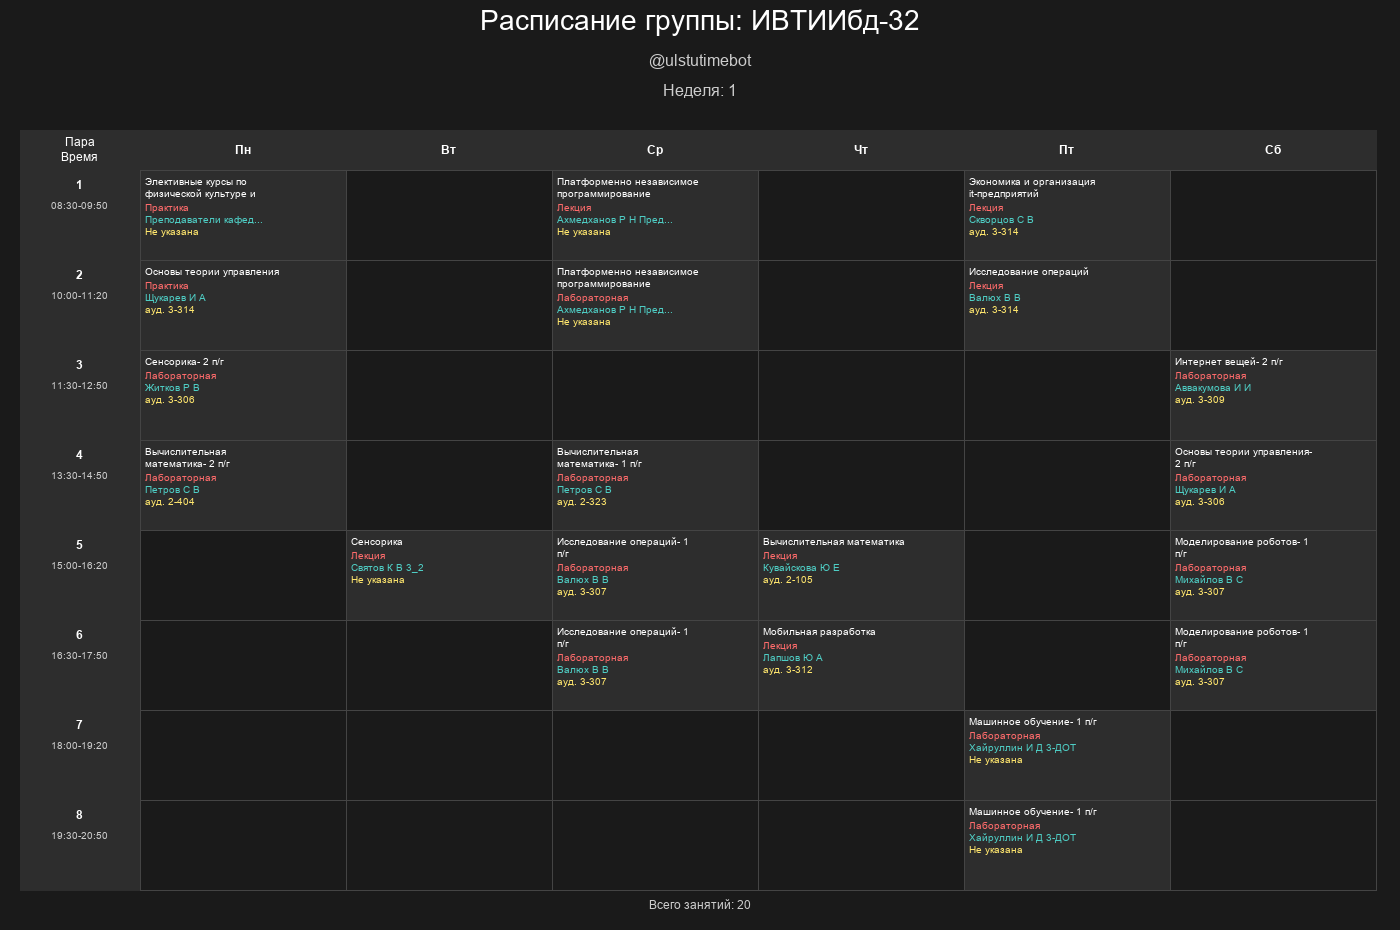
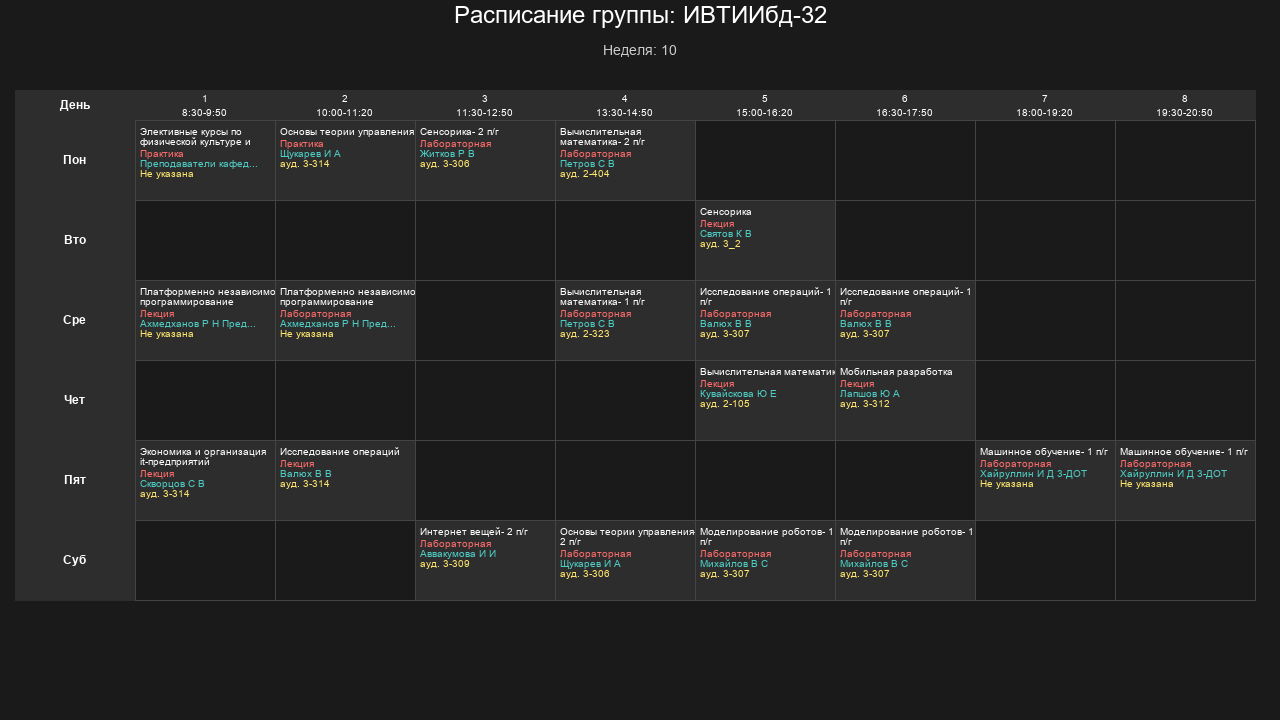
fixed week num

diff --git a/UlstuParser.py b/UlstuParser.py
@@ -108,7 +108,7 @@ class UlstuParser:
         return all_groups_data
 
     def parse_group_schedule(self, group_url):
-        """Парсит расписание группы УлГТУ - УЛУЧШЕННАЯ ВЕРСИЯ"""
+        """Парсит расписание группы УлГТУ - ПОЛНАЯ ИСПРАВЛЕННАЯ ВЕРСИЯ"""
         if not self.logged_in:
             # Получаем номер группы из URL и используем реальное название
             group_number = int(group_url.split('/')[-1].replace('.html', ''))
@@ -132,7 +132,30 @@ class UlstuParser:
             # Получаем номер группы из URL и используем реальное название
             group_number = int(group_url.split('/')[-1].replace('.html', ''))
             group_name = self.get_group_name(group_number)
-            week_number = "1"
+            week_number = "1"  # значение по умолчанию
+
+            # ИЩЕМ НОМЕР НЕДЕЛИ В ЗАГОЛОВКЕ
+            # Ищем заголовок с неделей
+            week_elements = soup.find_all('font', {'color': '#ff00ff', 'face': 'Times New Roman', 'size': '6'})
+            for element in week_elements:
+                text = element.get_text(strip=True)
+                if 'Неделя:' in text:
+                    # Извлекаем номер недели (например: "10-я", "11-я")
+                    week_match = re.search(r'Неделя:\s*(\d+)-я', text)
+                    if week_match:
+                        week_number = week_match.group(1)
+                        logging.info(f"📅 Найдена неделя: {week_number}")
+                    break
+
+            # Если не нашли через элементы, ищем по тексту
+            if week_number == "1":
+                week_texts = soup.find_all(text=re.compile(r'Неделя:'))
+                for text in week_texts:
+                    week_match = re.search(r'Неделя:\s*(\d+)-я', str(text))
+                    if week_match:
+                        week_number = week_match.group(1)
+                        logging.info(f"📅 Найдена неделя через текстовый поиск: {week_number}")
+                        break
 
             # Ищем все таблицы
             tables = soup.find_all("table", {"border": "1"})
@@ -167,14 +190,14 @@ class UlstuParser:
                         pair_number = cell_idx
 
                         # Получаем текст ячейки
-                        cell_text = cell.get_text(separator='\n', strip=True)
+                        cell_text = cell.get_text()
 
                         if cell_text and cell_text not in ['', '-', ' ']:
                             # Парсим содержимое ячейки
                             lesson_data = self._parse_cell_content(cell_text)
                             if lesson_data:
                                 schedule_item = {
-                                    'week': 1,
+                                    'week': int(week_number),
                                     'day': day_name,
                                     'pair': pair_number,
                                     'subject': lesson_data['subject'],
@@ -185,8 +208,9 @@ class UlstuParser:
                                 schedules.append(schedule_item)
                                 logging.info(f"✅ Добавлено: {day_name} {pair_number} пара - {lesson_data['subject']}")
 
-            logging.info(f"📊 Итог: {len(schedules)} занятий для группы {group_name}")
+            logging.info(f"📊 Итог: {len(schedules)} занятий для группы {group_name}, неделя {week_number}")
             return group_name, week_number, schedules
+
 
         except Exception as e:
             logging.error(f"❌ Ошибка парсинга: {e}")
@@ -196,7 +220,7 @@ class UlstuParser:
             return group_name, "1", []
 
     def _parse_cell_content(self, cell_text):
-        """Парсит содержимое ячейки с занятием - ОБНОВЛЕННАЯ ВЕРСИЯ для аудиторий"""
+        """Парсит содержимое ячейки с занятием - УЛУЧШЕННАЯ ВЕРСИЯ"""
         try:
             lines = [line.strip() for line in cell_text.split('\n') if line.strip()]
 
@@ -204,27 +228,47 @@ class UlstuParser:
                 return None
 
             # Первая строка - предмет и тип
-            first_line = lines[0].lower()
+            first_line = lines[0]
 
             # Определяем тип занятия
             lesson_type = "Лекция"
-            if 'пр.' in first_line or 'практ' in first_line:
-                lesson_type = "Практика"
-            elif 'лаб.' in first_line or 'лабор' in first_line:
-                lesson_type = "Лабораторная"
-            elif 'сем.' in first_line:
-                lesson_type = "Семинар"
-            elif 'зач.' in first_line:
-                lesson_type = "Зачёт"
-            elif 'экз.' in first_line:
-                lesson_type = "Экзамен"
+            type_indicators = {
+                'пр.': "Практика",
+                'практ': "Практика",
+                'лаб.': "Лабораторная",
+                'лабор': "Лабораторная",
+                'сем.': "Семинар",
+                'зач.': "Зачёт",
+                'экз.': "Экзамен",
+                'лек.': "Лекция"
+            }
 
-            # Извлекаем название предмета (убираем сокращения типа)
-            subject = lines[0]
-            for abbrev in ['лек.', 'пр.', 'лаб.', 'сем.', 'зач.', 'экз.']:
-                if abbrev in subject.lower():
-                    subject = subject.lower().replace(abbrev, '').strip().capitalize()
+            for indicator, lesson_type_name in type_indicators.items():
+                if indicator in first_line.lower():
+                    lesson_type = lesson_type_name
+                    # Убираем сокращение типа из названия предмета
+                    first_line = first_line.lower().replace(indicator, '').strip()
+                    if first_line:  # Capitalize только если строка не пустая
+                        first_line = first_line.capitalize()
                     break
+
+            # Если не нашли сокращение, но есть русские обозначения
+            if lesson_type == "Лекция":
+                russian_indicators = {
+                    'практика': "Практика",
+                    'лабораторная': "Лабораторная",
+                    'семинар': "Семинар",
+                    'зачёт': "Зачёт",
+                    'экзамен': "Экзамен",
+                    'лекция': "Лекция"
+                }
+
+                for indicator, lesson_type_name in russian_indicators.items():
+                    if indicator in first_line.lower():
+                        lesson_type = lesson_type_name
+                        break
+
+            subject = first_line if first_line else "Не указано"
 
             # Преподаватель и аудитория
             teacher = "Не указан"
@@ -235,8 +279,8 @@ class UlstuParser:
                 teacher_line = lines[1]
 
                 # Паттерн для поиска формата "Фамилия И О номер_аудитории"
-                # Пример: "Лапшов Ю А 3-312"
-                classroom_pattern = r'([А-ЯЁ][а-яё]+(?:\s+[А-ЯЁ][а-яё]+)*)\s+([А-ЯЁ]\s+[А-ЯЁ])\s+([\d\-]+)$'
+                # Пример: "Лапшов Ю А 3-312", "Щукарев И А 3-314"
+                classroom_pattern = r'([А-ЯЁ][а-яё]+(?:\s+[А-ЯЁ][а-яё]+)*)\s+([А-ЯЁ]\s+[А-ЯЁ])\s+([\d\-_]+)$'
                 classroom_match = re.search(classroom_pattern, teacher_line)
 
                 if classroom_match:
@@ -247,7 +291,6 @@ class UlstuParser:
 
                     teacher = f"{teacher_name} {initials}"
                     classroom = f"ауд. {room_number}"
-
                     logging.info(f"🎯 Найдена аудитория в формате ФИО+аудитория: {teacher} -> {classroom}")
 
                 else:
@@ -263,7 +306,7 @@ class UlstuParser:
             if len(lines) > 2 and classroom == "Не указана":
                 third_line = lines[2]
                 # Проверяем формат "Фамилия И О номер_аудитории" в третьей строке
-                classroom_pattern = r'([А-ЯЁ][а-яё]+(?:\s+[А-ЯЁ][а-яё]+)*)\s+([А-ЯЁ]\s+[А-ЯЁ])\s+([\d\-]+)$'
+                classroom_pattern = r'([А-ЯЁ][а-яё]+(?:\s+[А-ЯЁ][а-яё]+)*)\s+([А-ЯЁ]\s+[А-ЯЁ])\s+([\d\-_]+)$'
                 classroom_match = re.search(classroom_pattern, third_line)
 
                 if classroom_match:
@@ -278,7 +321,7 @@ class UlstuParser:
                     classroom = third_line
 
             return {
-                'subject': subject if subject else "Не указано",
+                'subject': subject,
                 'type': lesson_type,
                 'teacher': teacher if teacher else "Не указан",
                 'classroom': classroom

diff --git a/handlers.py b/handlers.py
@@ -3,6 +3,7 @@ import os
 from maxapi.types import BotStarted, Command, MessageCreated, InputMediaBuffer
 from UlstuParser import UlstuParser
 from config import SCHEDULE_BASE_URL, MIN_GROUP_NUMBER, MAX_GROUP_NUMBER
+from groups_dict import GROUPS_DICT
 
 # Создаем парсер
 parser = UlstuParser()
@@ -159,6 +160,9 @@ async def group_handler(bot, event: MessageCreated):
                     f"❌ Номер группы должен быть от {MIN_GROUP_NUMBER} до {MAX_GROUP_NUMBER}"
                 )
                 return
+
+            # ОДИН вызов вместо двух
+            await event.message.answer(f"🔍 Генерирую расписание для группы {group_number}...")
             await generate_and_send_table(bot, chat_id, group_number)
 
         except ValueError:
@@ -167,7 +171,9 @@ async def group_handler(bot, event: MessageCreated):
             group_number = parser.find_group_number(group_name)
 
             if group_number:
-                await event.message.answer(f"🔍 Найдена группа: {parser.get_group_name(group_number)} (№{group_number})")
+                # ОДИН вызов вместо двух
+                await event.message.answer(
+                    f"🔍 Генерирую расписание для группы {parser.get_group_name(group_number)}...")
                 await generate_and_send_table(bot, chat_id, group_number)
             else:
                 # Предлагаем похожие группы
@@ -178,7 +184,7 @@ async def group_handler(bot, event: MessageCreated):
 
                 if similar_groups:
                     groups_text = "❌ Группа не найдена, но есть похожие:\n\n"
-                    for num, name in similar_groups[:5]:  # Показываем первые 5
+                    for num, name in similar_groups[:5]:
                         groups_text += f"• {name} - используйте `/group {num}`\n"
                     await event.message.answer(groups_text)
                 else:

diff --git a/main.py b/main.py
@@ -171,6 +171,9 @@ async def group_command(event: MessageCreated):
                     f"❌ Номер группы должен быть от {MIN_GROUP_NUMBER} до {MAX_GROUP_NUMBER}"
                 )
                 return
+
+            # ОДИН вызов функции
+            await event.message.answer(f"🔍 Генерирую расписание для группы {group_number}...")
             await generate_and_send_table(chat_id, group_number)
 
         except ValueError:
@@ -179,7 +182,8 @@ async def group_command(event: MessageCreated):
             group_number = parser.find_group_number(group_name)
 
             if group_number:
-                await event.message.answer(f"🔍 Найдена группа: {parser.get_group_name(group_number)} (№{group_number})")
+                # ТОТ ЖЕ САМЫЙ вызов функции, но с другим сообщением
+                await event.message.answer(f"🔍 Генерирую расписание для группы {parser.get_group_name(group_number)}...")
                 await generate_and_send_table(chat_id, group_number)
             else:
                 # Предлагаем похожие группы
